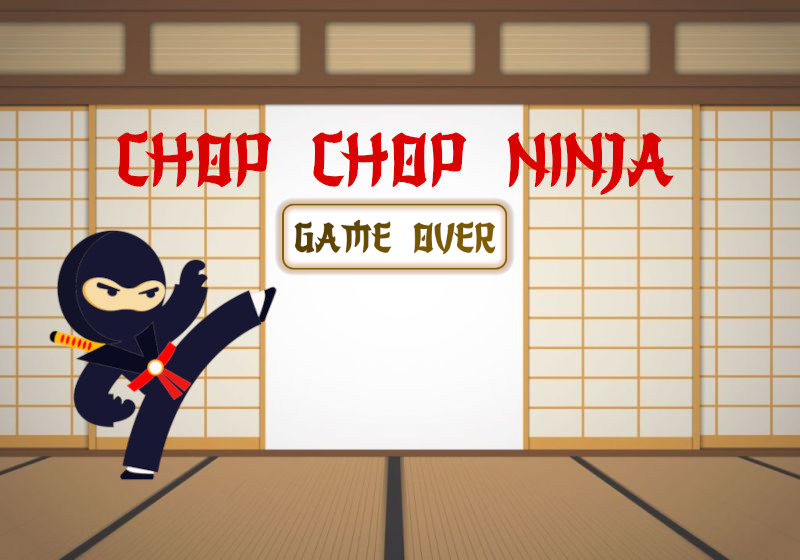
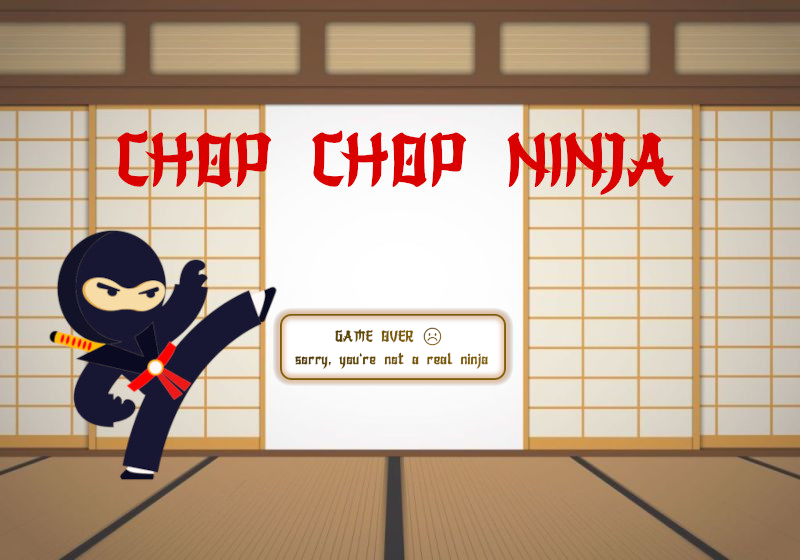
add endscore

Changed region(s): [[0.3438, 0.3339, 0.6562, 0.5161], [0.3438, 0.5464, 0.6562, 0.6982]]

diff --git a/index.js b/index.js
@@ -7,12 +7,16 @@ const startButton = document.querySelector('.play-img');
 
 const startScreen = document.querySelector('.start-game');
 
-const gameOver = document.querySelector('.game-over')
+const gameOver = document.querySelector('.game-over');
 
-const restart = document.querySelector('.restart')
+const restart = document.querySelector('.restart');
+
+const showScore = document.querySelector('.ninja-score span');
+
+
 
 //adding some cool song
-//const song = new Audio('../Eye_of_the_Tiger.mp3')
+//const song = new Audio('../Eye_of_the_Tiger.mp3'); 
 //song.volume = 0.1
 
 const background = new Image();
@@ -49,6 +53,8 @@ let playerMoveDown = false;
 let score = 0;
 
 
+
+
 // gameover
 let isGameOver = false;
 let gameId = 0; 
@@ -57,13 +63,15 @@ let gameId = 0;
 function endGame() {
   canvas.style.display = "none";
   gameOver.style.display = "block";
+  showScore.innerHTML = score;
+  
 }
 
 
 // obstacles
 let obstacles = [ {
   img: obstacle,
-  size: 40, // which effect ???
+  size: 40, 
   x: canvas.width + 5,
   y: 300
 },
@@ -176,8 +184,8 @@ isGameOver = true;
 // game is over
 if (isGameOver === true) {
   cancelAnimationFrame(gameId)
-
 endGame ()
+
 
 } else {
   gameId = requestAnimationFrame (animate);  // start the new frame for the game

diff --git a/index.html b/index.html
@@ -13,19 +13,23 @@
 
     <div class="start-game"> 
       <img src="./img/play-button.png" alt="play-img" class="play-img" />
-     <!-- <img src="./img/game-background.jpg" alt="game-background" />     --> 
+
     </div>
 
     <div id="game-area">
       <canvas id="canvas" width="700" height="400"></canvas>
     </div>
-    <div class="game-over"> 
+ 
       
-      <img src="./img/play-button.png" alt="gameover-img" class="restart" />
 
     </div>
 
 
+    <div class="game-over">    
+      <img src="./img/play-button.png" alt="play-img" class="restart" /> 
+      <p class="score-text">Your ninja score: <span class="ninja-score">0</span></p>
+    </div>
+  
     <script src="index.js"></script>
   </body>
 

diff --git a/style.css b/style.css
@@ -17,7 +17,7 @@ body {
     display: flex;
     flex-direction: column;
     align-items: center;
-    justify-content:center
+    justify-content:center;
 }
 
 h1 {
@@ -32,5 +32,20 @@ h1 {
   width: 700px;
   background-position: 3px;
 
+  display: flex;
+  flex-direction: column;
+  align-items: center;
+  justify-content:center;
 }
 
+.score {
+ color: orangered;
+}
+
+.score-text {
+text-align: center;
+margin: 210px;
+font-family: fantasy;
+font-size: 14px;
+color: #A37C4D;
+}
